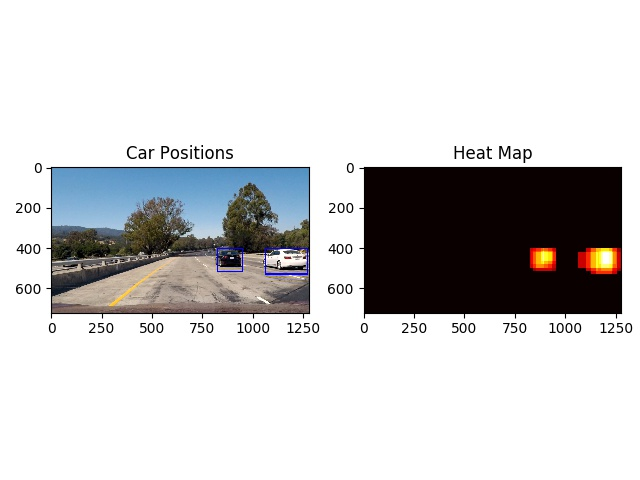
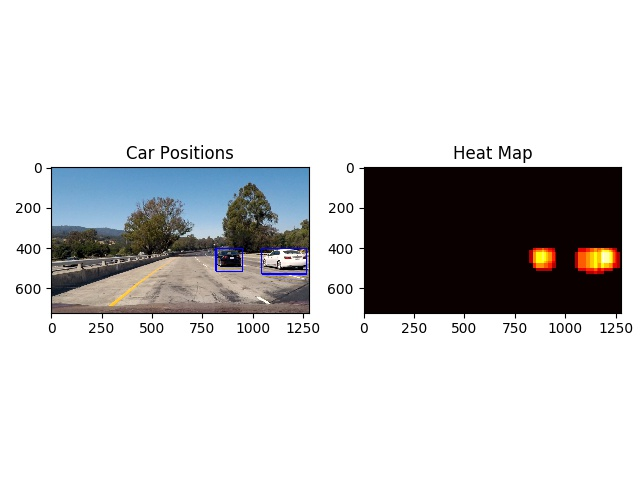
updating figures for the report

diff --git a/multiple_detect_false_positive.py b/multiple_detect_false_positive.py
@@ -25,24 +25,26 @@ hog_feat = True
 
 images_names = glob.glob('test_images/*.jpg')
 
+# Parameters for efficient sliding window search
 s1 = 64
 s2 = 96
 s3 = 128
-s4 = 128
+s4 = 160
 amp = 1.2
-rate = 0.8
-'''
-xy_window_list = [(s1, s1), (s2, s2), (s3, s3)]
-x_start_stop_list = [[None, None],[None, None],[None, None]]
-y_start_stop_list = [[400, 400 + int(amp*s1)],[400, 400 + int(amp*s2)],[400, 400 + int(amp*s3)]]
-xy_overlap_list = [(rate, rate), (rate, rate), (rate, rate)]
-'''
-
+rate1 = 0.85
+rate2 = 0.8
+rate3 = 0.7
+rate4 = 0.6
 xy_window_list = [(s1, s1), (s2, s2), (s3, s3), (s4, s4)]
 x_start_stop_list = [[None, None],[None, None],[None, None], [None, None]]
 y_start_stop_list = [[400, 400 + int(amp*s1)],[400, 400 + int(amp*s2)],
-                        [400, 400 + int(amp*s3)], [400, 400 + int(amp*s4)]]
-xy_overlap_list = [(rate, rate), (rate, rate), (rate, rate), (rate, rate)]
+                    [400, 400 + int(amp*s3)], [400, 400 + int(amp*s4)]]
+xy_overlap_list = [(rate1, rate1), (rate2, rate2), (rate3, rate3), (rate4, rate4)]
+
+
+fig = plt.subplot(6, 2, figsize = (12,12))
+ind = 0
+ind_start = 620 # 6 rows and 2 columns fig
 
 for image_name in images_names:
 
@@ -81,16 +83,29 @@ for image_name in images_names:
     labels = label(heatmap)
     draw_img = draw_labeled_bboxes(np.copy(image), labels)
 
-    fig = plt.figure()
-    plt.subplot(121)
+    ind = ind + 1
+    ind_2 = ind*2
+    ind_1 = ind_2 - 1
+
+    if ind_2 < 10:
+        ind_start_1 = ind_start + ind_1
+        ind_start_2 = ind_start + ind_2
+    else:
+        ind_start_1 = 10*ind_start + ind_1
+        ind_start_2 = 10*ind_start + ind_2
+
+    print(ind_start_2)
+    plt.add_subplot(6, 2, ind_1)
     plt.imshow(draw_img)
     plt.title('Car Positions')
-    plt.subplot(122)
+    plt.add_subplot(6, 2, ind_2)
     plt.imshow(heatmap, cmap='hot')
     plt.title('Heat Map')
     fig.tight_layout()
 
-    pure_image_name = image_name.rsplit('/',1)[1]
-    output_image_name = 'output_images/' + pure_image_name[:-4] + '_heated' + pure_image_name[-4:]
-    plt.savefig(output_image_name)
+    # pure_image_name = image_name.rsplit('/',1)[1]
+    # output_image_name = 'output_images/' + pure_image_name[:-4] + '_heated' + pure_image_name[-4:]
+
+output_image_name = 'output_images/bouding_boxes_and_heatmap.png'
+plt.savefig(output_image_name)
 

diff --git a/writeup_template.md b/writeup_template.md
@@ -1,8 +1,4 @@
-## Writeup Template
-
----
-
-**Vehicle Detection Project**
+## **Vehicle Detection Project**
 
 The goals / steps of this project are the following:
 
@@ -59,14 +55,15 @@ Since LUV color space contains negative values and can't be applied to the built
 
 
 #### 3. Describe how (and identify where in your code) you trained a classifier using your selected HOG features (and color features if you used them).
-
-I trained a linear SVM using the augmented data set with features of spatial and histbin under `LUV` colorspace and hog under `HSV` colorspace. This part was done as in Line 171 to 216 in `hog_classify.py` as the trained linear SVC along its parameters were saved as pickle files.
+    
+I trained a linear SVM using the augmented data set with features of spatial and histbin under `LUV` colorspace and hog under `HSV` colorspace. This part was done from Line 171 to 216 in `hog_classify.py` and the trained linear SVC along its parameters were saved as pickle files. The classifier can achieve 99% plus test accuracy repeatedly which reflected its good performance. However, false positives can still be detected in the video processing, and this can be mitigated by
+introducing a bigger data set and deep learning based classifier, but using heatmap for filtering the false positive given time series images performed well enough which will be shown later.
 
 ### Sliding Window Search
 
 #### 1. Describe how (and identify where in your code) you implemented a sliding window search.  How did you decide what scales to search and how much to overlap windows?
 
-I decided to search random window positions at random scales all over the image and came up with this (ok just kidding I didn't actually ;):
+Many experiments were performed to tune the parameters for sliding window search. As shown from line 72 to 86 in the file named `pipeline.py`, four different sizes of sliding windows were defined along with their overlap rates, and area to search. The basic principle is to design windows that has significantly different sizes to cover potential smaller vehicles near the horizon and larger vehicles close to the bottom of the image. 
 
 ![alt text][image3]
 
@@ -80,12 +77,12 @@ Ultimately I searched on two scales using YCrCb 3-channel HOG features plus spat
 ### Video Implementation
 
 #### 1. Provide a link to your final video output.  Your pipeline should perform reasonably well on the entire project video (somewhat wobbly or unstable bounding boxes are ok as long as you are identifying the vehicles most of the time with minimal false positives.)
-Here's a [link to my video result](./project_video.mp4)
+Here's a [link to my video result](https://www.youtube.com/watch?v=ZK4GcmxS-uY)
 
 
 #### 2. Describe how (and identify where in your code) you implemented some kind of filter for false positives and some method for combining overlapping bounding boxes.
 
-I recorded the positions of positive detections in each frame of the video.  From the positive detections I created a heatmap and then thresholded that map to identify vehicle positions.  I then used `scipy.ndimage.measurements.label()` to identify individual blobs in the heatmap.  I then assumed each blob corresponded to a vehicle.  I constructed bounding boxes to cover the area of each blob detected.  
+I recorded the positions of positive detections in each frame of the video. From the positive detections I created a heatmap and then thresholded that map to identify vehicle positions. The corrected threshold was obtained through a trial and error approach.   I then used `scipy.ndimage.measurements.label()` to identify individual blobs in the heatmap.  I then assumed each blob corresponded to a vehicle.  I constructed bounding boxes to cover the area of each blob detected.  
 
 Here's an example result showing the heatmap from a series of frames of video, the result of `scipy.ndimage.measurements.label()` and the bounding boxes then overlaid on the last frame of video:
 
@@ -108,4 +105,7 @@ Here's an example result showing the heatmap from a series of frames of video, t
 #### 1. Briefly discuss any problems / issues you faced in your implementation of this project.  Where will your pipeline likely fail?  What could you do to make it more robust?
 
 Here I'll talk about the approach I took, what techniques I used, what worked and why, where the pipeline might fail and how I might improve it if I were going to pursue this project further.  
+
+
+
 
